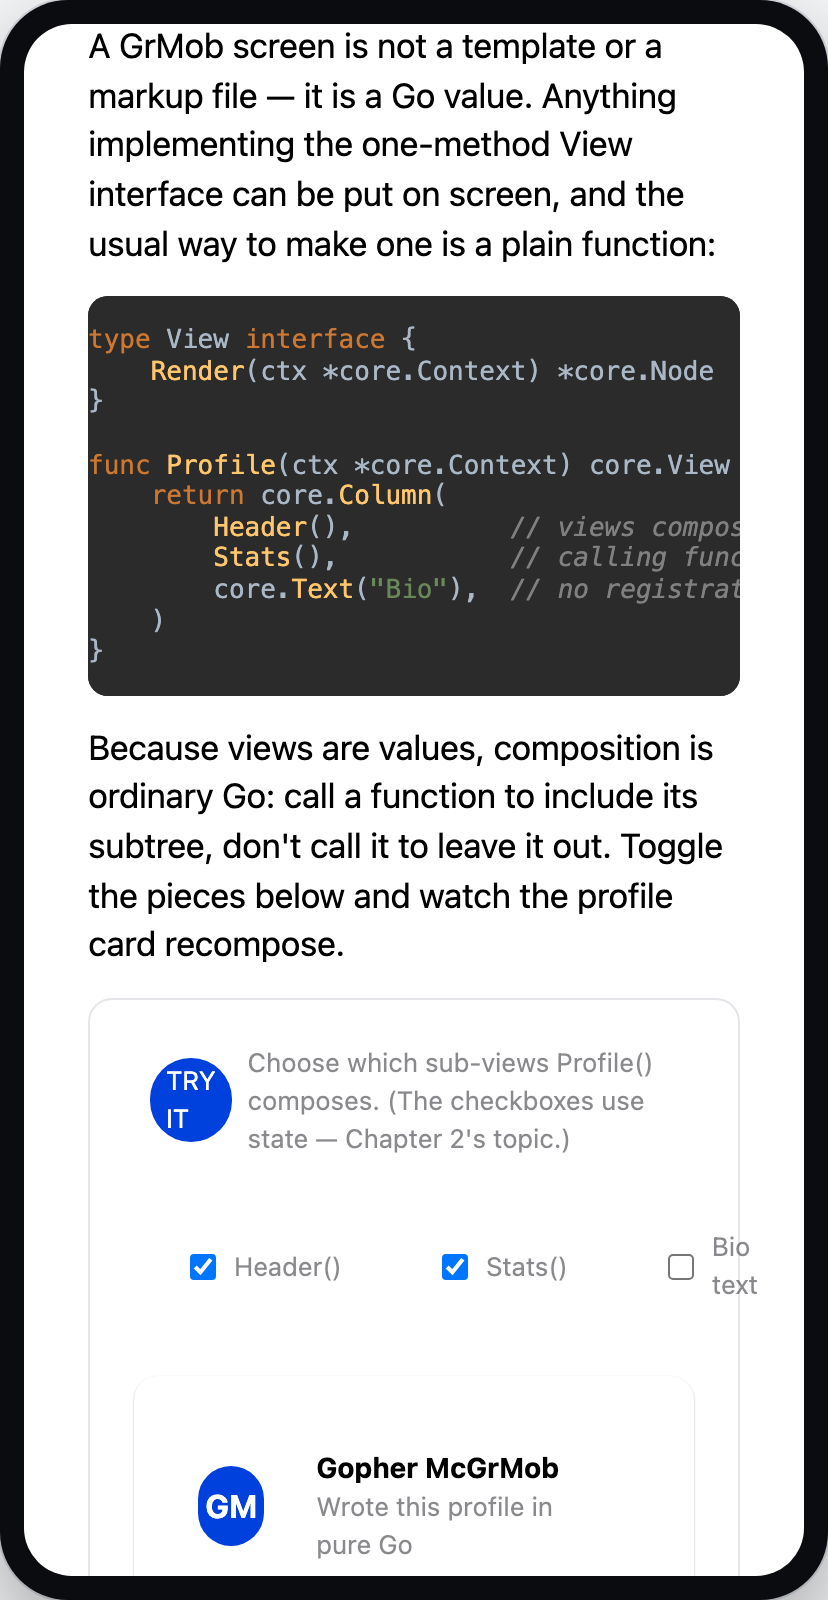
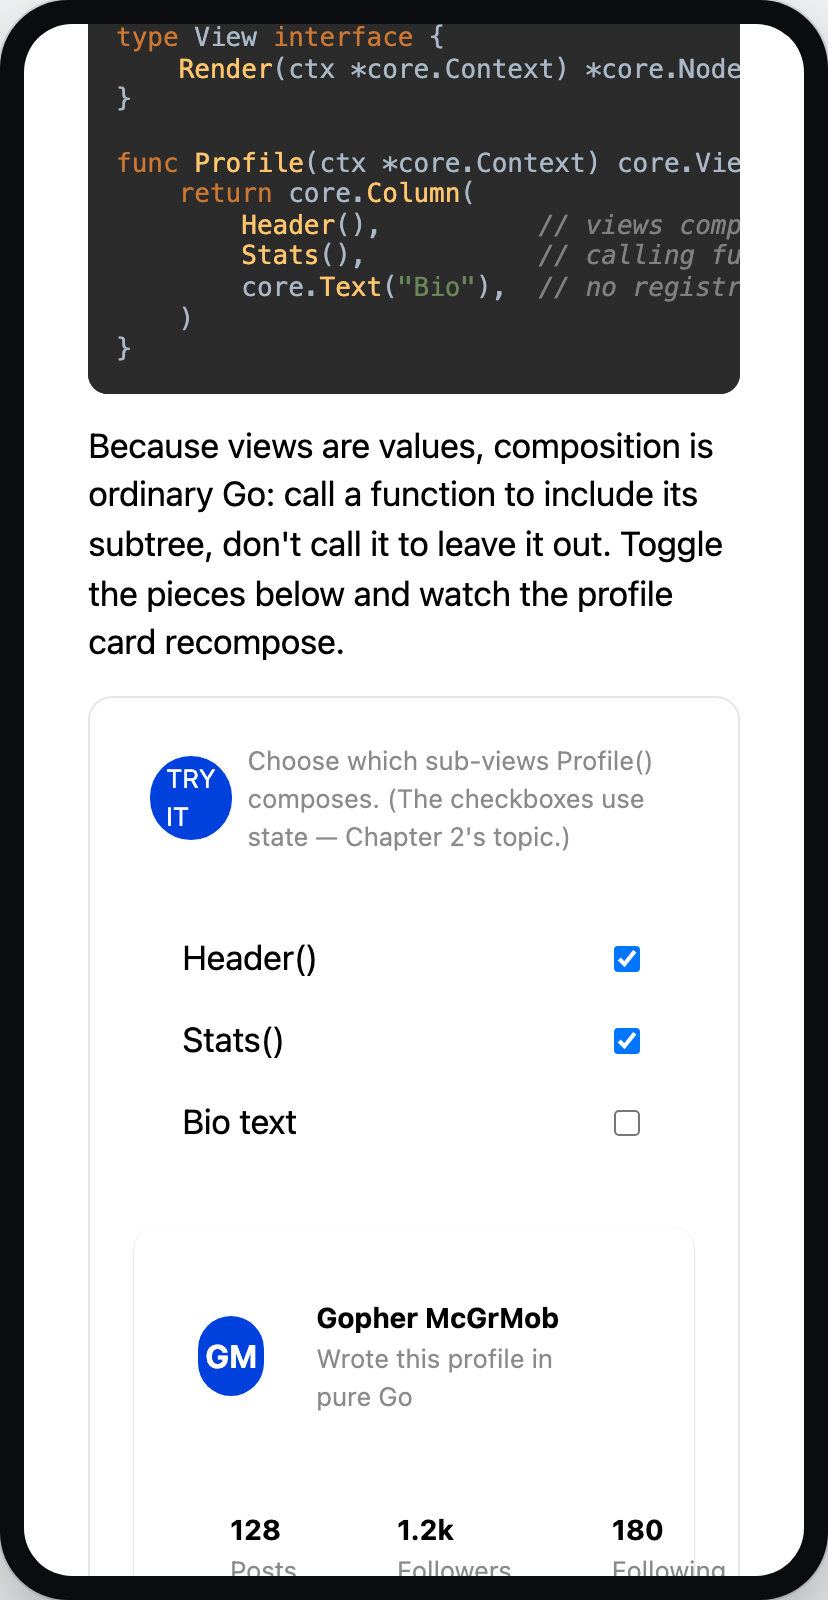
Tutorial demos use comps: Stepper, CheckboxRow, SwitchRow
The tutorial's hand-rolled stepper helper now wraps comps.Stepper, which
owns the step and the clamp the three chapter-1 call sites passed as
closures, and disables the button at a bound. checkRow wraps
comps.CheckboxRow, so every demo toggle is a whole-row target (chapter
6.4's gift-receipt row included). Chapter 8's debug-mode hand-roll is a
CheckboxRow, and chapter 4's Marker and GPS rows are SwitchRows.

Lesson 1.1's three toggles stack in a Column now; side by side they
overflowed a phone. tutorial-lesson.png is retaken and scrolls to the
code block, so the profile card the toggles drive stays in frame; the
opening sentence left the claim with the frame.

Left as they are: 6.4's modal card (the lesson teaches the core.Modal
chassis; 6.x rebuilds it with Dialog), chapter 2's checkbox/switch
lesson and mobileapp's rows (a leading checkbox is the arrangement they
teach), chapter 6.7's ⋯ button. todoapp and mobileapp have no confirm
flow, and signup has no step header, so there was nothing to migrate.

Claude-Session: https://claude.ai/code/session_013PPKnYoYbsVv3vW7oAXA6p

diff --git a/wasm/shots/scripts/tutorial-lesson.js b/wasm/shots/scripts/tutorial-lesson.js
@@ -5,9 +5,16 @@
 // The scroll is the point of the shot. A lesson is a paragraph, a
 // highlighted code block and a live TRY IT panel, and the top of the
 // screen is a title bar — so a picture taken where the lesson opens shows
-// the chrome and one paragraph. Scrolling to the opening sentence puts
-// the three things the shot is actually about in one frame, and is why
-// the claim in internal/shotclaims does not name the lesson's own title:
-// it is above the top of the picture.
+// the chrome and one paragraph. Scrolling to the code block puts the
+// three things the shot is actually about in one frame, and is why the
+// claim in internal/shotclaims names neither the lesson's own title nor
+// its opening sentence: both are above the top of the picture.
+//
+// It scrolled to the opening sentence until the demo's toggles became
+// comps.CheckboxRow. Those are full-width rows stacked in a column rather
+// than three checkboxes squeezed into one row, which is taller, and from
+// the opening sentence the profile card they recompose fell below the
+// frame. A picture of the toggles without the card they drive shows the
+// controls and not what they do, so the frame moved down one paragraph.
 await tap("Hello, GrMob");
-await scrollTo("A GrMob screen is not a template");
+await scrollTo("type View interface");

diff --git a/examples/tutorial/chapter1.go b/examples/tutorial/chapter1.go
@@ -1,8 +1,6 @@
 package tutorial
 
 import (
-	"fmt"
-
 	"github.com/rohanthewiz/grmob/comps"
 	"github.com/rohanthewiz/grmob/core"
 )
@@ -68,8 +66,11 @@ func Profile(ctx *core.Context) core.View {
 					"include its subtree, don't call it to leave it out. Toggle the pieces below and "+
 					"watch the profile card recompose."),
 				demoPanel("Choose which sub-views Profile() composes. (The checkboxes use state — Chapter 2's topic.)",
-					core.Row(
-						core.Gap(14),
+					// A Column, not the Row these three once shared: each is now a
+					// full-width CheckboxRow, and three rows side by side do not fit a
+					// phone. Gap 0 because a ListRow carries the theme's row padding.
+					core.Column(
+						core.Gap(0),
 						checkRow("Header()", showHeader),
 						checkRow("Stats()", showStats),
 						checkRow("Bio text", showBio),
@@ -91,15 +92,22 @@ func Profile(ctx *core.Context) core.View {
 	}
 }
 
-// checkRow pairs a checkbox with its caption. Local to the chapter: the
-// widget library has FormField for the real thing; this is demo furniture.
+// checkRow is the demos' labelled checkbox: a comps.CheckboxRow bound to one
+// bool state.
+//
+// It was a hand-rolled Row of a core.Checkbox and a caption, where only the
+// box took a tap. CheckboxRow makes the whole row the target and names the
+// box after its title, which is what a toggle row on a phone is expected to
+// do, so every demo gets that from this one helper. The helper stays rather
+// than the struct being written out at each of its ~30 call sites: a demo's
+// point is the state it flips, and one line per toggle keeps that in view.
+//
+// OnToggle is s.Set, a setter, as CheckboxRow requires: on the web a tap on
+// the box reaches Go twice (the row's click, then the input's change), and a
+// setter turns the second report into a no-op where a flip would undo the
+// first.
 func checkRow(label string, s core.State[bool]) core.View {
-	return core.Row(
-		core.Gap(6),
-		core.AlignItemsProp(core.AlignItemsCenter),
-		core.Checkbox(s.Get(), func(v bool) { s.Set(v) }),
-		caption(label),
-	)
+	return comps.CheckboxRow{Title: label, Checked: s.Get(), OnToggle: s.Set}
 }
 
 func helloHeader() core.View {
@@ -179,14 +187,8 @@ core.Text("Read me", core.UseStyle(ctx.Theme().Typography.Title))`),
 						core.FontWeight(weight),
 						core.TextColor(inkFor[colorIdx.Get()]),
 					),
-					stepper("FontSize", fmt.Sprintf("%d", size.Get()), func(d int) {
-						size.Set(clamp(size.Get()+d*2, 12, 40))
-					}),
-					core.Row(
-						core.Gap(14),
-						core.AlignItemsProp(core.AlignItemsCenter),
-						checkRow("Bold", bold),
-					),
+					stepper("FontSize", size, 12, 40, 2),
+					checkRow("Bold", bold),
 					comps.SegmentedControl{
 						Style:     segWrap,
 						Labels:    inkRoles,
@@ -203,17 +205,6 @@ core.Text("Read me", core.UseStyle(ctx.Theme().Typography.Title))`),
 			)
 		},
 	}
-}
-
-// clamp keeps a stepped value inside the demo's sensible range.
-func clamp(v, lo, hi int) int {
-	if v < lo {
-		return lo
-	}
-	if v > hi {
-		return hi
-	}
-	return v
 }
 
 // --- 1.3 -----------------------------------------------------------------
@@ -259,9 +250,7 @@ core.Column(
 						OnSelect:  func(i int) { axis.Set(i) },
 						KeyPrefix: "axis-",
 					},
-					stepper("Gap", fmt.Sprintf("%d", gap.Get()), func(d int) {
-						gap.Set(clamp(gap.Get()+d*4, 0, 32))
-					}),
+					stepper("Gap", gap, 0, 32, 4),
 					core.IfElse(axis.Get() == 0,
 						core.Row(boxes...),
 						core.Column(boxes...),
@@ -410,9 +399,7 @@ comps.Screen{
 							core.Shadow(shadowElev),
 						)...),
 					),
-					stepper("BorderRadius", fmt.Sprintf("%d", radius.Get()), func(d int) {
-						radius.Set(clamp(radius.Get()+d*4, 0, 28))
-					}),
+					stepper("BorderRadius", radius, 0, 28, 4),
 					checkRow("Shadow", shadow),
 				),
 				keyPoints(

diff --git a/examples/tutorial/widgets.go b/examples/tutorial/widgets.go
@@ -201,17 +201,24 @@ const (
 var segWrap = []core.StyleProp{core.FlexWrap(true)}
 
 // stepper is the −/+ control the demos use for numeric knobs (gap, font
-// size, radius). Controlled like every GrMob input: it renders value and
-// reports intent through onDelta; clamping is the caller's policy.
-func stepper(label string, value string, onDelta func(delta int)) core.View {
-	return core.ComponentFunc(func(ctx *core.Context) *core.Node {
-		return core.Row(
-			core.Gap(8),
-			core.AlignItemsProp(core.AlignItemsCenter),
-			caption(label),
-			comps.Button{Label: "−", OnTap: func() { onDelta(-1) }, Emphasis: comps.EmphasisOutlined},
-			core.Text(value, core.FontWeight(core.Bold)),
-			comps.Button{Label: "+", OnTap: func() { onDelta(+1) }, Emphasis: comps.EmphasisOutlined},
-		).Render(ctx)
-	})
+// size, radius): a caption naming the knob, then a comps.Stepper bound to one
+// int state.
+//
+// It hand-rolled the two buttons and the number until comps.Stepper existed.
+// The widget now owns what each call site used to pass as a closure: the step
+// size and the clamp into [lo, hi]. It also disables the button that would
+// leave the range, and names the buttons "Decrease"/"Increase" for screen
+// readers, where a bare "−" is read as "minus" or not at all.
+//
+// The caption stays outside the widget because Stepper deliberately draws no
+// label (its Label is only the group's accessible name), and a knob in a demo
+// panel needs its name on screen. The same string is passed as that name, so
+// what is seen and what is announced cannot drift apart.
+func stepper(label string, s core.State[int], lo, hi, step int) core.View {
+	return core.Row(
+		core.Gap(8),
+		core.AlignItemsProp(core.AlignItemsCenter),
+		caption(label),
+		comps.Stepper{Value: s.Get(), Min: lo, Max: hi, Step: step, OnChange: s.Set, Label: label},
+	)
 }

diff --git a/examples/tutorial/chapter4.go b/examples/tutorial/chapter4.go
@@ -2064,10 +2064,13 @@ func lessonStaticMap() Lesson {
 					"is \"interact with a map\", not \"where is this\"."),
 				demoPanel("Pick a place. The switch is a setting, so the marker changes on the tap.",
 					comps.ChipStrip{Chips: chips},
-					comps.ListRow{
+					// SwitchRow rather than a ListRow with a trailing core.Switch:
+					// the whole row is the target, and the switch is named after it.
+					comps.SwitchRow{
 						Title:    "Marker",
 						Subtitle: "A pin at the centre",
-						Trailing: core.Switch(marker.Get(), func(v bool) { marker.Set(v) }),
+						On:       marker.Get(),
+						OnToggle: marker.Set,
 					},
 					comps.ChipStrip{Chips: zoomChips(zoom)},
 					shown,
@@ -2435,11 +2438,13 @@ if loc.Received && loc.Available {
 					// The flag, as a control the reader can flick. A switch
 					// rather than a button because it shows its own state:
 					// "the GPS is on" is a fact about right now, and a button
-					// would only say what tapping it does.
-					comps.ListRow{
+					// would only say what tapping it does. A SwitchRow, so the whole
+					// row flicks it rather than only the control at its edge.
+					comps.SwitchRow{
 						Title:    "Keep the GPS on",
 						Subtitle: "The flag hooks.UseLocationWhen takes",
-						Trailing: core.Switch(gpsOn.Get(), func(v bool) { gpsOn.Set(v) }),
+						On:       gpsOn.Get(),
+						OnToggle: gpsOn.Set,
 					},
 				),
 				prose("That panel is the one place in this tutorial that asks the OS for "+

diff --git a/examples/tutorial/chapter8.go b/examples/tutorial/chapter8.go
@@ -311,15 +311,18 @@ func TestMain(m *testing.M) { core.SetDebugMode(true); m.Run() }
 					"— the demo below proves that too: with the switch off, the same bad "+
 					"list records nothing at all."),
 				demoPanel("Flip the switch, render a bad list, and read the findings live.",
-					core.Row(
-						core.Gap(6),
-						core.AlignItemsProp(core.AlignItemsCenter),
-						core.Checkbox(core.IsDebugMode(), func(v bool) {
+					// CheckboxRow directly rather than checkRow: the value is core's
+					// process-wide flag, not a state slot, so the setter has to repaint
+					// as well. CheckboxRow drops a report of the value already drawn,
+					// so the web's two reports of one tap repaint once.
+					comps.CheckboxRow{
+						Title:   "Debug mode (core.SetDebugMode — process-wide)",
+						Checked: core.IsDebugMode(),
+						OnToggle: func(v bool) {
 							core.SetDebugMode(v)
 							repaint()
-						}),
-						caption("Debug mode (core.SetDebugMode — process-wide)"),
-					),
+						},
+					},
 					checkRow("Render two rows that share the key \"dup\"", provoke),
 					core.If(provoke.Get(), core.Column(
 						core.Gap(4),

diff --git a/examples/tutorial/screenshot_test.go b/examples/tutorial/screenshot_test.go
@@ -91,8 +91,8 @@ func TestTheTutorialContentsScreenshotStillShowsWhatItClaims(t *testing.T) {
 // a camera sees, not what the tree holds, so a claim naming text the
 // reader cannot actually see would be held by this test and by nothing a
 // person could check against the image. The strings here are the ones in
-// the frame: the opening paragraph, the highlighted code, and the TRY IT
-// panel under it.
+// the frame: the highlighted code, the paragraph under it, and the TRY IT
+// panel with the profile card its toggles recompose.
 func TestTheTutorialLessonScreenshotStillShowsWhatItClaims(t *testing.T) {
 	mgr := newApp(t)
 	openLesson(t, mgr, "Hello, GrMob")

diff --git a/internal/shotclaims/shotclaims.go b/internal/shotclaims/shotclaims.go
@@ -187,10 +187,9 @@ var Claims = []Claim{{
 	File:    "tutorial-lesson.png",
 	Package: "examples/tutorial",
 	State: "lesson 1.1 opened from the contents screen and scrolled to " +
-		"the TRY IT panel, so the lesson's own title bar is above the " +
-		"top of the frame",
+		"its code block, so the lesson's title bar and opening sentence " +
+		"are above the top of the frame",
 	Shows: []string{
-		"A GrMob screen is not a template or a markup file",
 		"type View interface {",
 		"func Profile(ctx *core.Context) core.View {",
 		"Because views are values, composition is ordinary Go",
